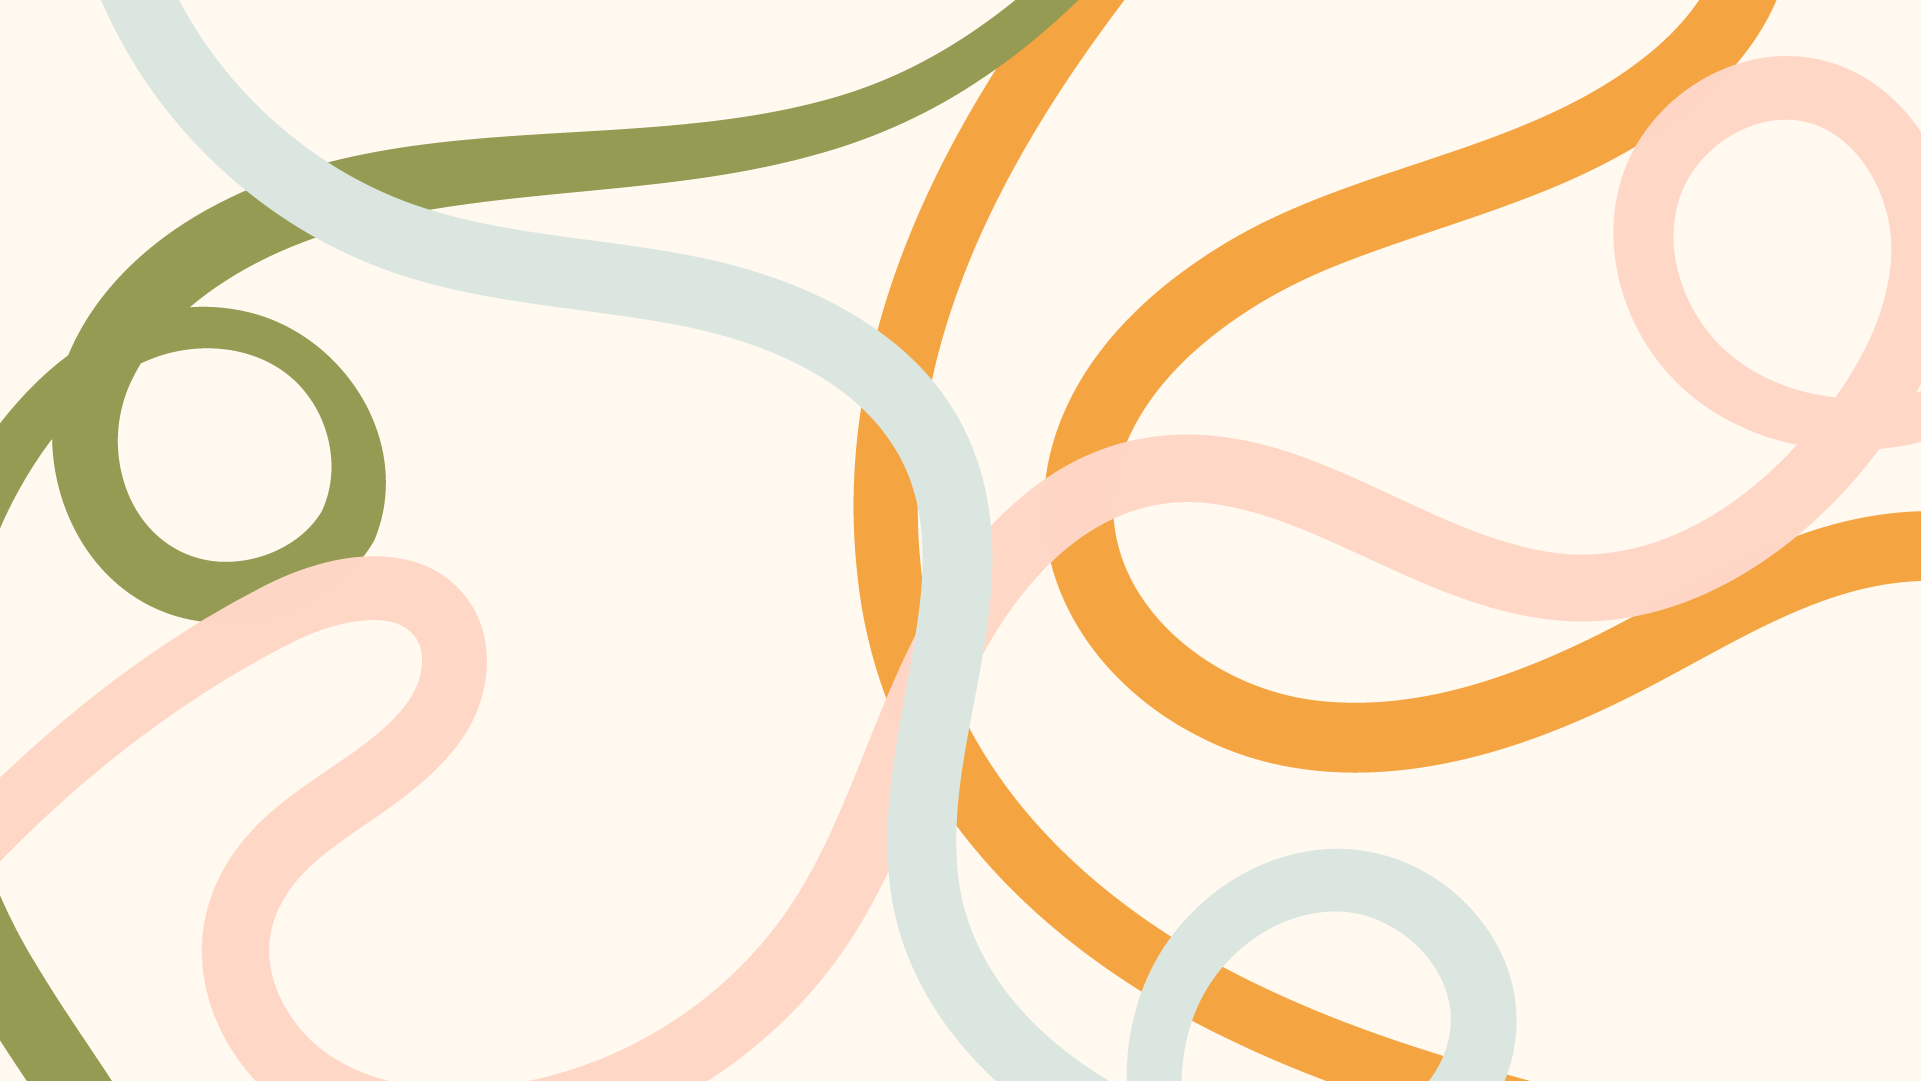
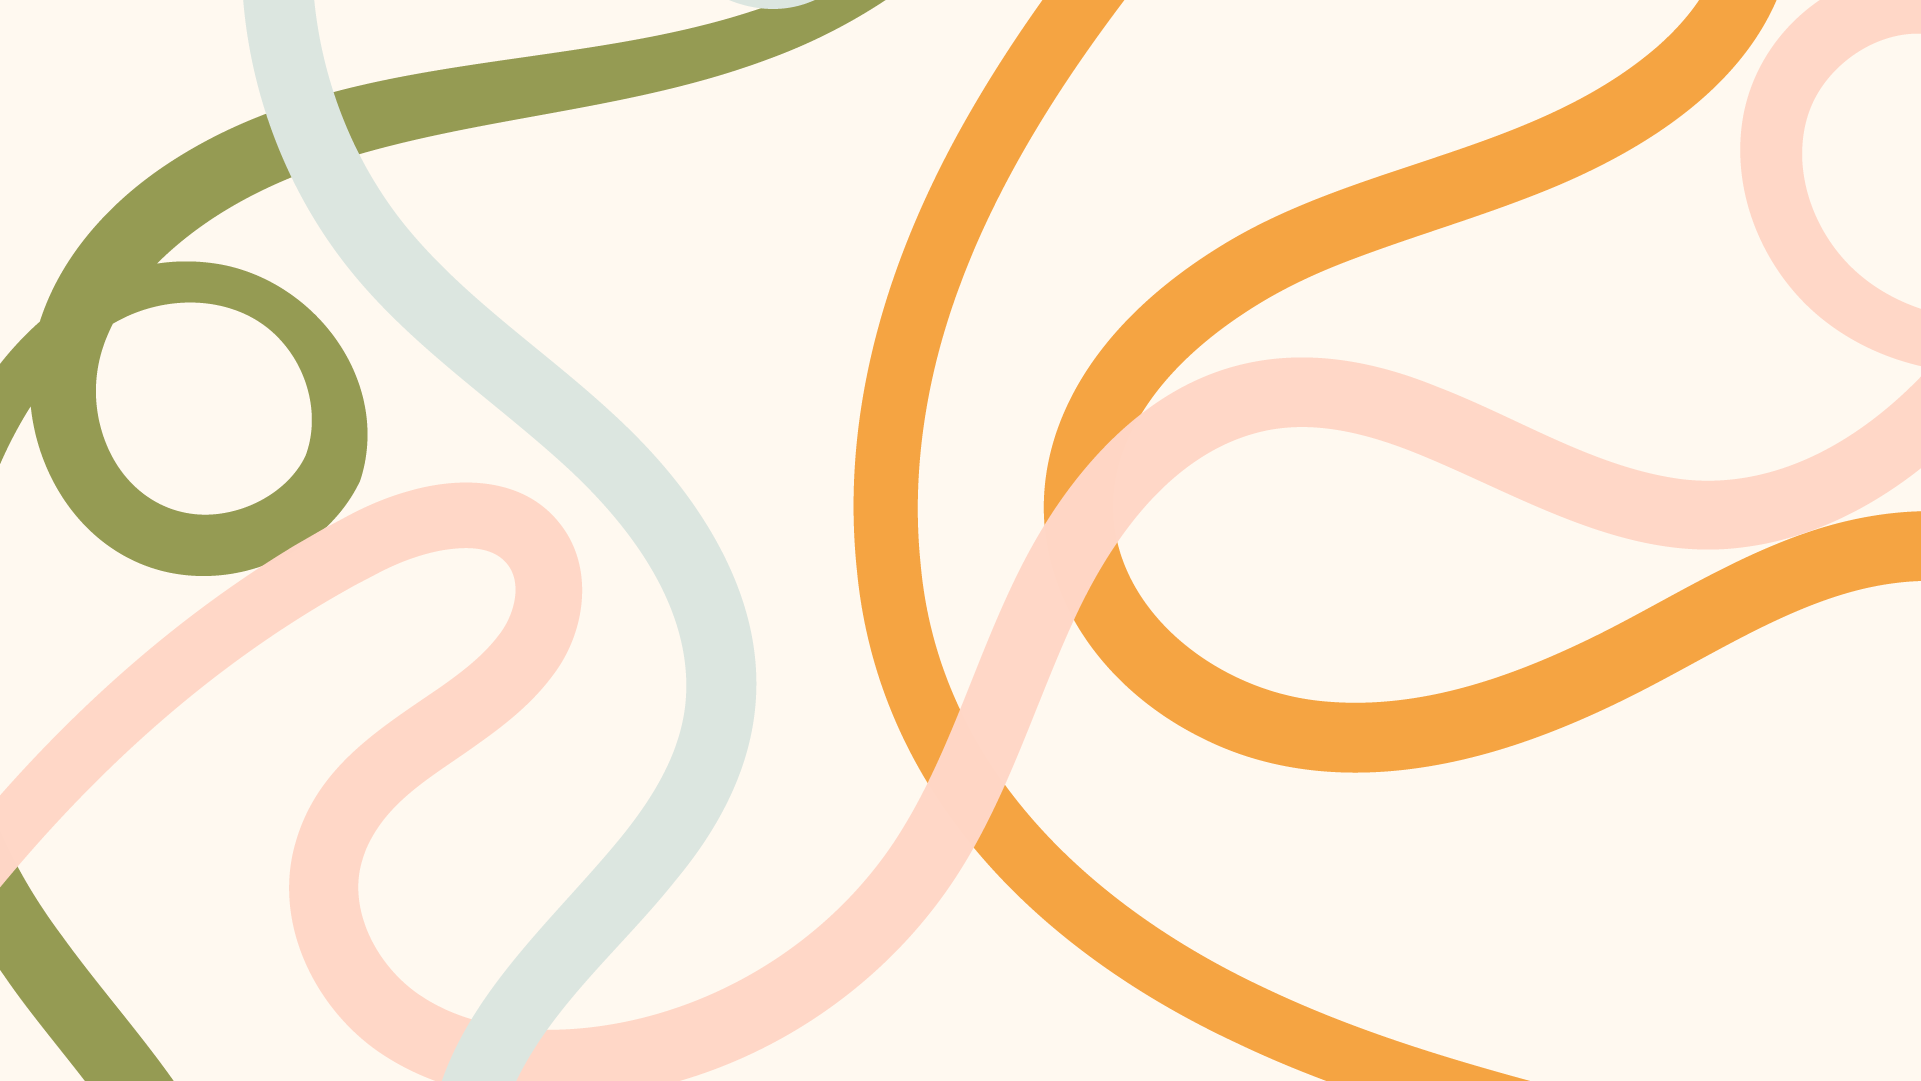
project-7-3-24

diff --git a/projects/portfolio/css/style.css b/projects/portfolio/css/style.css
@@ -9,7 +9,7 @@ body {
 
 /* Hero Styling */
 #hero {
-    background-image: url(../images/hero.png);
+    background-image: url(../images/hero-2.png);
     height: 100vh;
     background-size: cover;
     background-position: center;
@@ -20,32 +20,57 @@ body {
     flex-direction: column;
 }
 
+#hero #gb {
+    font-size: 4vw;
+    margin-bottom: 0px;
+}
+
 #hero h1 {
     color: #333333;
     margin-top: 5vh;
     text-align: center;
+    font-family: Gelica;
+    font-size: 8vw;
+    margin-top: 0px;
 }
 
 #hero a {
     color: white;
     text-decoration: none;
     font-size: 1.5vw;
+    font-family: Gelica;
+    font-weight: 300;
     background-color: #959b53;
     display: inline-block;
     padding: 15px;
     text-align: center;
     border: 2px solid #959b53;
     border-radius: 20px;
+    transition: 
+        background-color .3s,
+        color .3s;
 }
 
+#hero a:hover {
+    background-color: #dce6e0;
+    color: #333333;
+    border: 2px solid #dce6e0;
+}
+
+
 /* Card Styling */
+#background-color {
+    background-color: #ffd7c7;
+    padding: 100px 40px;
+}
+
 #card-section {
     width: 90vw;
-    max-width:800px;
+    max-width: 800px;
     margin: 48px auto;
     display: flex;
     flex-wrap: wrap;
-    gap: 36px;
+    gap: 100px;
     justify-content: center;
 }
 
@@ -60,15 +85,16 @@ body {
     width: 100%;
     height: 400px;
     object-fit: cover;
-    border-radius: 10px 10px 0px 0px;
+    border-radius: 40px 40px 0px 0px;
 
 }
 
 .card a {
-    color: black;
+    color: white;
     text-decoration: none;
     font-size: 20px;
-    font-weight: bold;
+    font-family: Gelica;
+    font-weight: 400;
     background-color: #f5a442;
     display: inline-block;
     width: 100%;
@@ -76,31 +102,86 @@ body {
     text-align: center;
     border: 2px solid #f5a442;
     border-radius: 0px 0px 10px 10px;
+    transition: 
+        background-color .3s,
+        color .3s;
 }
 
-/* Gallery Layout & Styling  */
+.card a:hover {
+    background-color: transparent;
+    color: #959b53;
+    border: 2px solid #959b53;
+}
+
+
+/* Gallery Layout & Styling */
 h2 {
     text-align: center;
+    font-size: 3vw;
+    font-family: Gelica;
+    margin-top: 80px;
 }
 
 #gallery h3 {
-    
+    font-family: Gelica;
+    font-weight: 400;
 }
 
 #gallery {
-    max-width: 800px;
-    margin: 48px auto;
+    columns: 3 auto;
+    column-gap: 48px;
+    max-width: 1200px;
+    margin: 60px auto 0px auto;
     text-align: center;
-    display: flex;
-    flex-wrap: wrap;
-    gap: 48px;
-    padding: 20px;
 }
 
 #gallery img {
-    height: 200px;
     flex: 1;
     object-fit: cover;
+    width: 100%;
+    margin-bottom: 48px;
 }
 
+
 /* Footer Layout & Styling */
+#footer {
+    display: flex;
+    padding: 100px 80px;
+    justify-content: center;
+    justify-content: space-between;
+    align-items: center;
+    background-color: #dce6e0;
+    margin-top: 0px;
+}
+
+#footer img {
+    width: 8%;
+}
+
+#footer p {
+    font-style: italic;
+    font-family: Gelica;
+    font-weight: 300;
+}
+
+#footer a {
+    color: white;
+    text-decoration: none;
+    font-family: Gelica;
+    font-weight: 300;
+    background-color: #959b53;
+    display: inline-block;
+    padding: 15px 25px;
+    text-align: center;
+    border: 2px solid #959b53;
+    border-radius: 20px;
+    transition: 
+        background-color .3s,
+        color .3s;
+}
+
+#footer a:hover {
+    background-color: transparent;
+    color: #959b53;
+    border: 2px solid #959b53;
+}

diff --git a/projects/portfolio/index.html b/projects/portfolio/index.html
@@ -5,31 +5,35 @@
         <meta name="viewport" content="width=device-width, initial-scale=1.0">
         <title>Georgianna's Portfolio</title>
         <link href="css/style.css" rel="stylesheet">
+        <link rel="stylesheet" href="https://use.typekit.net/wem4foc.css">
     </head>
     <body>
         <div id="hero">
-            <h1>Georgianna Bates' Portfolio</h1>
-            <a href="#gallery">View My Work</a>
+            <h1 id="gb">Georgianna Bates'</h1>
+            <h1>Portfolio</h1>
+            <a href="#work">View My Work</a>
         </div>
-        <div id="card-section">
-            <div class="card">
-                <img
-                    src="images/about.jpg"
-                    alt="Someone Typing"
-                >
-                <a href="#">About the Designer</a>
-            </div>
-            <div class="card">
-                <img
-                    src="images/contact.jpg"
-                    alt="Desktop View"
-                >
-                <a href="#">Contact</a>
+        <div id="background-color">
+            <div id="card-section">
+                <div class="card">
+                    <img
+                        src="images/about.jpg"
+                        alt="Someone Typing"
+                    >
+                    <a href="#">About the Designer</a>
+                </div>
+                <div class="card">
+                    <img
+                        src="images/contact.jpg"
+                        alt="Desktop View"
+                    >
+                    <a href="#">Get in Touch</a>
+                </div>
             </div>
         </div>
-        <h2>Projects</h2>
+        <h2 id="work">Projects</h2>
         <div id="gallery">
-            <!-- <h3>Illustration</h3> -->
+            <h3>Illustration</h3>
             <img
                 src="images/creative-portrait.png"
                 alt="Creative Portrait"
@@ -39,20 +43,20 @@
                 alt="Book Cover"
             >
             <img
+                src="images/illustration.png"
+                alt="Illustration"
+            >
+            <h3>For the Web</h3>
+            <img
                 src="images/homepage.png"
                 alt="Website Homepage"
             >
-            <img
-                src="images/logo-gif.gif"
-                alt="Logo Gif"
-            >
-            <!-- <h3>For the Web</h3>
-            <h3>Print</h3> -->
+            <h3>Print</h3>
             <img
                 src="images/poster.png"
                 alt="Poster"
             >
-            <!-- <h3>Photos</h3> -->
+            <h3>Photography & Ads</h3>
             <img
                 src="images/matte-painting.jpg"
                 alt="Matte Painting"
@@ -65,12 +69,22 @@
                 src="images/product-photography.jpg"
                 alt="Product Photography"
             > 
+            <h3>Brand Design</h3>
             <img
                 src="images/style-guide.png"
                 alt="Style Guide Cover"
             > 
         </div>
         <div id="footer">
+            <img
+                src="images/gb-logo.png"
+                alt="Personal Logo (Georgianna Bates)"
+            >
+            <p>
+                Junior graphic designer looking to grow and specialize 
+                in branding and marketing. 
+            </p>
+            <a href="#">Contact Me</a>
         </div>
     </body>
 </html>

diff --git a/demos/16-cards/css/style.css b/demos/16-cards/css/style.css
@@ -69,5 +69,5 @@ body {
 
 .card a:hover {
     background-color: transparent;
-    color: lightcoral
+    color: lightcoral;
 }
